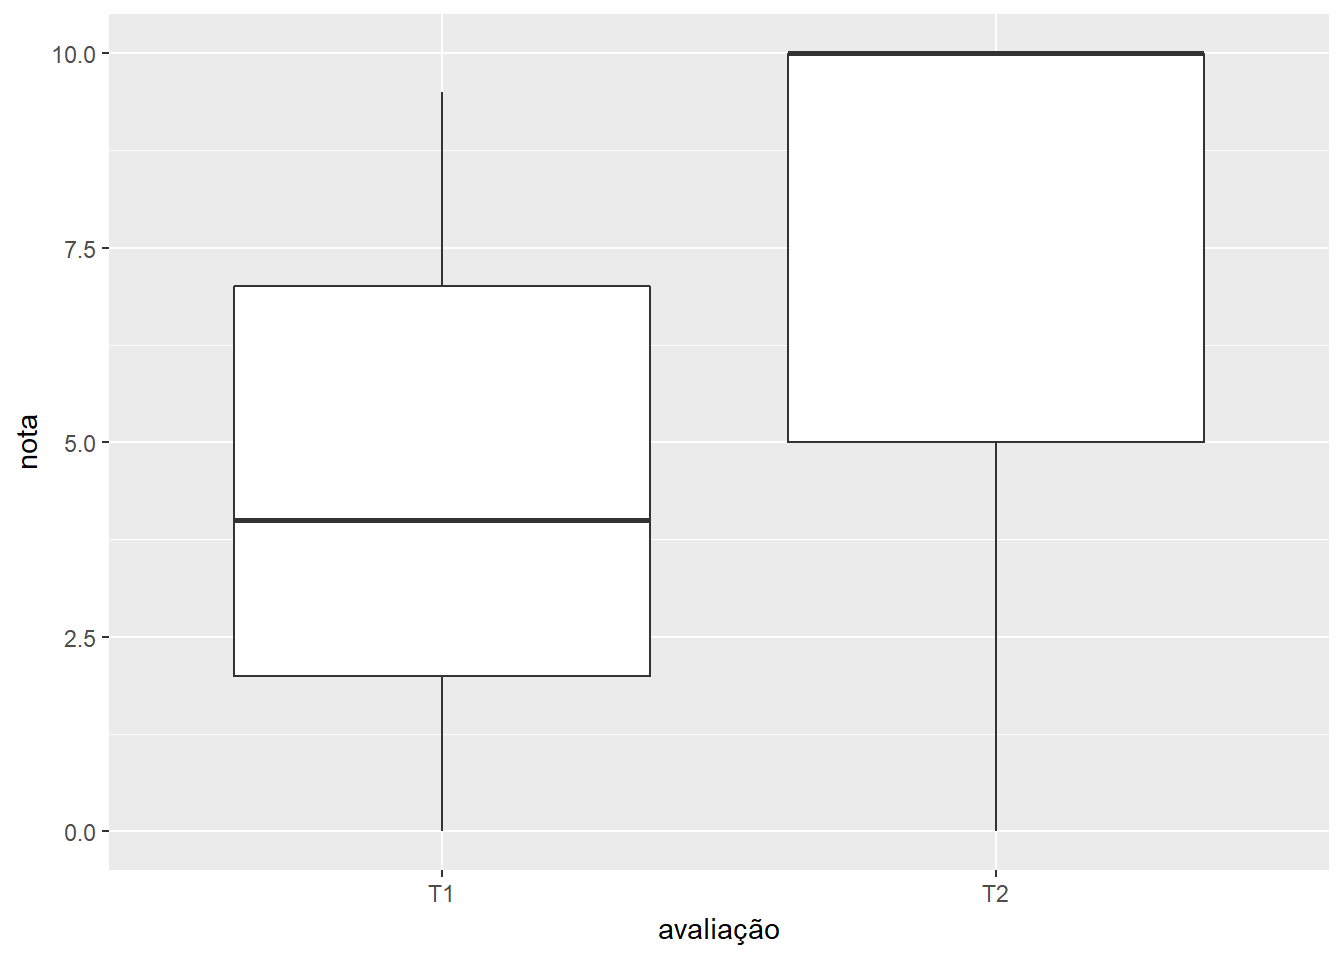
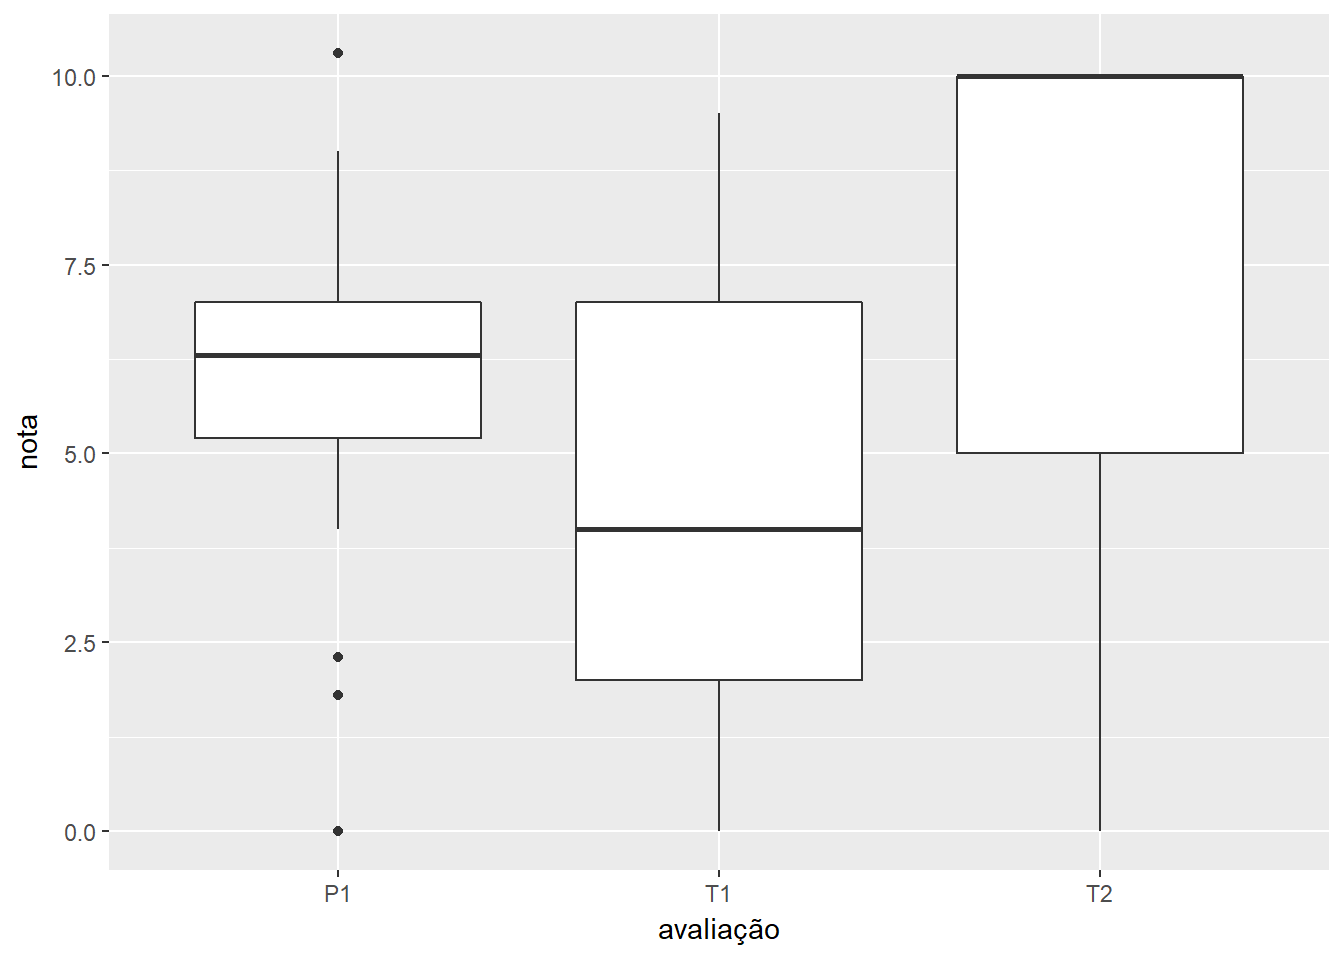
Notas Prob C 2018 - P1

diff --git a/content/post/2018-04-23-lula.html b/content/post/2018-04-23-lula.html
@@ -10,14 +10,14 @@ tags: ["jurimetrics", "constitution", "habeas corpus", "presumption of innocence
 
 <p>I recently wrote a <a href="https://abj.org.br/principios-conflitantes-e-jurimetria/">text</a> in portuguese which studies how Brazil’s Supreme Federal Court decided ex-president Lula’s <em>habeas corpus</em>. In the following, I translate this text to English.</p>
 <hr />
-<p>Brazil’s Supreme Federal Court recently <a href="http://www.stf.jus.br/portal/cms/verNoticiaDetalhe.asp?idConteudo=374437">decided</a> ex-president’s Lula <em>habeas corpus</em> in a tight vote of 5 for and 6 against. In such a situation, some controversy is unavoidable. One of the less sophisticated arguments is that there exists a single valid interpretation of the Constitution and, therefore, anyone who decides in the opposite direction is ill-intentioned. This text aims to show that such personal arguments cannot address the complex questions which were discussed in Lula’s trial.</p>
+<p>Brazil’s Supreme Federal Court recently <a href="http://www.stf.jus.br/portal/cms/verNoticiaDetalhe.asp?idConteudo=374437">decided</a> ex-president Lula’s <em>habeas corpus</em> in a tight vote of 5 for and 6 against. In such a situation, some controversy is unavoidable. One of the less sophisticated arguments is that there exists a single valid interpretation of the Constitution and, therefore, anyone who decides in the opposite direction is ill-intentioned. This text aims to show that such personal arguments cannot address the complex questions which were discussed in Lula’s trial.</p>
 <p>The first step is to prove that interpreting the Constitution is a complex activity, which involves simultaneously considering several issues. Indeed, Brazil’s <a href="http://www.planalto.gov.br/ccivil_03/constituicao/constituicaocompilado.htm">Federal Constitution</a> has 250 articles. If all of these articles were interpreted intuitively and in isolation, contradictions would immediately ensue. For example, in the following I translate articles of the Constitution that defend the right to privacy and also public security:</p>
 <ul>
 <li>Art. 5o, X: The intimacy, private life, honor and image of people are inviolable (…)</li>
 <li>Art. 144: Public security is a duty of the State and right and responsibility of every person (…)</li>
 </ul>
 <p>If the right to privacy were interpreted in isolation and with maximum comprehensiveness, then every type of security camera would be prohibited. Similarly, if public security were interpreted in isolation and with maximum comprehensiveness, then one would find a justification for an all-powerful State that spies on every action of its citizens. Contrary to these naive interpretations, most people conclude that there exists a balance between these articles. There is a middle term between security and privacy that is more beneficial than either of the naive interpretations. However, finding such a middle term is a complex and subjective question, which can be answered in many ways.</p>
-<p>In Lula’s trial, a similar question motivated the differences between the Ministers of the Supreme Court. Each Minister defended a different balance between articles of the Constitution. One of these articles is translated below:</p>
+<p>In Lula’s trial, a similar question motivated the differences between the Ministers of the Supreme Court. Each Minister defended a particular balance between articles of the Constitution. One of these articles is translated below:</p>
 <ul>
 <li>Art. 5o, LVII: No one is guilty before the final disposal of a criminal conviction.</li>
 </ul>
@@ -27,6 +27,6 @@ tags: ["jurimetrics", "constitution", "habeas corpus", "presumption of innocence
 <li>Art. 5o: (…) The State guarantees to Brazilians and foreigners living in Brazil the inviolability of the right to their lives, liberty, equality, security and private property.</li>
 <li>Art. 5o, LXXVIII: The reasonable duration of trials is protected (…) a todos (…) são assegurados a razoável duração do processo (…)</li>
 </ul>
-<p>There exist a large number of appeals available in Brazil and Courts have long waiting lines for judging these appeals. Hence, it is possible to argue that, if the State were to wait until all appeals were judged before punishing the defendant, then punishment would take so long that it would be almost equivalent to no punishment at all. In this case, public security would be damaged, since it depends partially on proper punishment.</p>
+<p>There exist a large number of appeals available in Brazil and Courts have long waiting lines for judging these appeals. Hence, it is possible to argue that, if the State were to wait until all appeals were judged before punishing the defendant, then punishment would take so long that it would be almost equivalent to no punishment at all. In this case, <strong>public security</strong> would be damaged, since it depends partially on proper punishment.</p>
 <p>The vote of each Minister searched for a different balance between the constitutional principles described above. Each position is justifiable, since such a harmonization involves a subjective judgement of the relative importance of each of the principles in each practical situation. Another interesting point is that, with few exceptions, the Ministers tend to vote consistently in favor of the same harmonization of principles. That is, they vote according to their convictions and not according to the defendant.</p>
-<p>However, despite the validity of their votes, it can be hard to understand exactly how each Minister develops the balance of constitutional principles. How different would have to be the facts so that their votes would change? This is a hard question because, in order to balance, it is necessary to measure. How much time must a trial take so that punishment is not efficient? How much time does it take to decide each available appeal? After what appeal is the trial so long that it compromises public security? Although there still exists no single valid answer to these questions, by answering them, the judge makes even more transparent the rationale of his decision. By combining Statistics to the Law, Jurimetrics provides a new valuable tool for accomplishing this goal. In next posts, I plan to discuss some jurimetric arguments that were presented by the Ministers in this case.</p>
+<p>However, despite the validity of their votes, it can be hard to understand exactly how each Minister develops the balance of constitutional principles. How different would the facts need to be so that the Minister’s votes would change? This is a hard question because, <strong> in order to balance, it is necessary to measure </strong>. How much time must a trial take so that punishment is not efficient? How much time does it take to decide each available appeal? After what appeal is the trial so long that it compromises public security? Although there exists no single valid answer to these questions, by answering them, the judge makes the rationale of his decision even more transparent. By combining Statistics to the Law, <strong>Jurimetrics</strong> provides a new valuable tool for accomplishing this goal. In next posts, I plan to discuss some jurimetric arguments that were presented by the Ministers in this case.</p>

diff --git a/content/classes/2018_1_prob_c/grades.html b/content/classes/2018_1_prob_c/grades.html
@@ -21,7 +21,7 @@ subtitle: "1o semestre de 2018"
 <li><p>Caso o seu número RA esteja marcado com um (*), isto indica que existe evidência que você desrespeitou o código de ética desta disciplina. Tome cuidado! Caso o seu número RA esteja marcado com um (**), está provado que você desrespeitou o código de ética desta disciplina e você está reprovado.</p></li>
 </ul>
 <div id="htmlwidget-1" style="width:100%;height:auto;" class="datatables html-widget"></div>
-<script type="application/json" data-for="htmlwidget-1">{"x":{"filter":"none","data":[["1922","1930","1967**","1990","2023","2139","4440","4845","4848","4849","4852","4854","4870","4873","4877","4879","5944","5947","6800","6851","7835*","7837","7839","7843","7846","7847","7849","7859","7860","7867","7869","7870","7871","7872","8072","8542","9081"],[4,2,0,4,5,2,1,0,5,7,7,9.5,4,7,7,7,2,7,4,7,0,5.5,4,4,0,9,4,2,9.5,5,0,4,2,1,5,5,7],[9,10,0,10,5,0,10,5,10,10,10,10,2,10,10,10,10,10,10,10,10,10,10,10,10,9,10,0,0,10,7.5,9,10,4,0,0,10]],"container":"<table class=\"display\">\n  <thead>\n    <tr>\n      <th>RA<\/th>\n      <th>T1<\/th>\n      <th>T2<\/th>\n    <\/tr>\n  <\/thead>\n<\/table>","options":{"dom":"ftip","columnDefs":[{"className":"dt-right","targets":[1,2]}],"order":[],"autoWidth":false,"orderClasses":false}},"evals":[],"jsHooks":[]}</script>
+<script type="application/json" data-for="htmlwidget-1">{"x":{"filter":"none","data":[["1922","1930","1965","1990","2023","2139","4440","4845","4848","4849","4852","4854","4870","4873","4877","4879","5944","5947","6800","6851","7835*","7837","7839","7843","7846","7847","7849","7859","7860","7867","7869","7870","7871","7872","8072","8542","9081"],[4,2,0,4,5,2,1,0,5,7,7,9.5,4,7,7,7,2,7,4,7,0,5.5,4,4,0,9,4,2,9.5,5,0,4,2,1,5,5,7],[9,10,0,10,5,0,10,5,10,10,10,10,2,10,10,10,10,10,10,10,10,10,10,10,10,9,10,0,0,10,7.5,9,10,4,0,0,10],[6.3,6.3,5,6.5,2.3,6.5,4,7.5,7.3,5,7.5,7.5,9,7,7,10.3,7.5,7.3,0,6.8,4.8,6,7.5,5.5,5,4.5,6.5,1.8,6.5,6.3,6.8,6.3,6,5.2,5.3,5.5,5.5]],"container":"<table class=\"display\">\n  <thead>\n    <tr>\n      <th>RA<\/th>\n      <th>T1<\/th>\n      <th>T2<\/th>\n      <th>P1<\/th>\n    <\/tr>\n  <\/thead>\n<\/table>","options":{"dom":"ftip","columnDefs":[{"className":"dt-right","targets":[1,2,3]}],"order":[],"autoWidth":false,"orderClasses":false}},"evals":[],"jsHooks":[]}</script>
 <div id="graficos" class="section level3">
 <h3>Gráficos</h3>
 <p><img src="/classes/2018_1_prob_c/grades_files/figure-html/unnamed-chunk-2-1.png" width="672" /></p>
